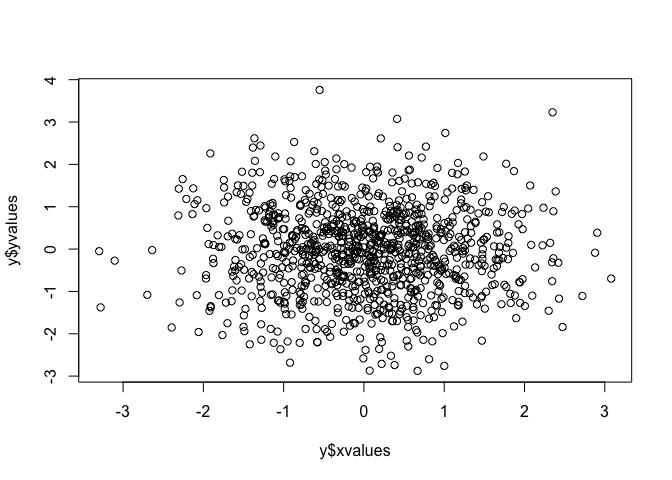
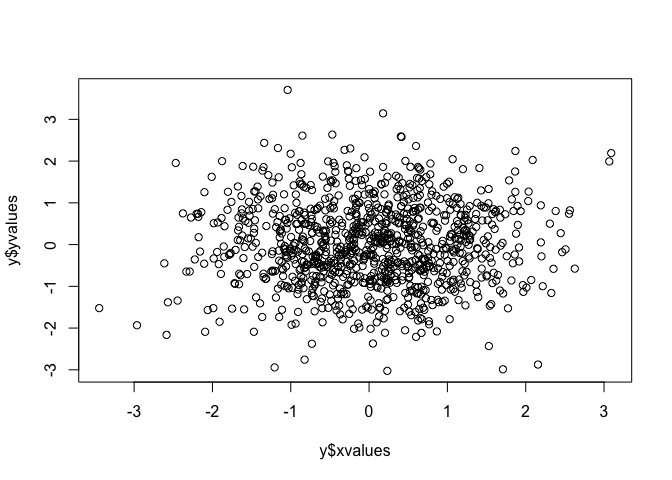
Part 1

diff --git a/01A.md b/01A.md
@@ -1,7 +1,7 @@
 Introduction to R Programming
 ================
 Mingyang Lu
-10/6/2021
+10/12/2021
 
   - [Why Using R?](#why-using-r)
   - [A crash course of R](#a-crash-course-of-r)
@@ -251,35 +251,35 @@ mat = matrix(rnorm(16), nrow = 4)    # generating a random matrix of 4 x 4
 mat
 ```
 
-    ##            [,1]       [,2]       [,3]       [,4]
-    ## [1,] -0.0902297  1.1380551  0.1367340 -0.6177632
-    ## [2,]  0.3722407 -1.5746884  0.2345532  0.5704284
-    ## [3,]  0.9343333  0.2401492 -0.8433827 -0.1688769
-    ## [4,] -0.3087685 -1.4850208  1.3330041 -0.2518285
+    ##             [,1]       [,2]        [,3]       [,4]
+    ## [1,]  3.34840063  0.2994124  0.07208216 -0.1968725
+    ## [2,]  0.01452122 -0.1090686 -0.42321761  0.5025703
+    ## [3,] -1.34016296 -0.9214317 -0.17566972 -0.9264722
+    ## [4,] -0.10481810 -0.4189668  0.44969997  1.4097254
 
 ``` r
 apply(mat, 1, sum)   # row sum
 ```
 
-    ## [1]  0.5667963 -0.3974661  0.1622229 -0.7126136
+    ## [1]  3.52302276 -0.01519473 -3.36373654  1.33564050
 
 ``` r
 rowSums(mat)   # An alternative way to do row sum
 ```
 
-    ## [1]  0.5667963 -0.3974661  0.1622229 -0.7126136
+    ## [1]  3.52302276 -0.01519473 -3.36373654  1.33564050
 
 ``` r
 apply(mat, 2, sum)   # column sum
 ```
 
-    ## [1]  0.9075759 -1.6815049  0.8609086 -0.4680402
+    ## [1]  1.91794081 -1.15005466 -0.07710519  0.78895103
 
 ``` r
 colSums(mat)  # An alternative way to do column sum
 ```
 
-    ## [1]  0.9075759 -1.6815049  0.8609086 -0.4680402
+    ## [1]  1.91794081 -1.15005466 -0.07710519  0.78895103
 
 There are other apply-like functions, such as lappy, sappy, tapply,
 *etc.* [Check here for more
@@ -663,23 +663,23 @@ means
 ```
 
     ## [[1]]
-    ## [1] 0.226894
+    ## [1] 0.4794852
     ## 
     ## [[2]]
-    ## [1] -0.4203762
+    ## [1] -0.2875137
     ## 
     ## [[3]]
-    ## [1] 0.2152272
+    ## [1] -0.0192763
     ## 
     ## [[4]]
-    ## [1] -0.11701
+    ## [1] 0.1972378
 
 ``` r
 means2 = colMeans(mat)   # an alternative way to compute column means
 means2
 ```
 
-    ## [1]  0.2268940 -0.4203762  0.2152272 -0.1170100
+    ## [1]  0.4794852 -0.2875137 -0.0192763  0.1972378
 
 ## Efficient R programming
 
@@ -787,7 +787,7 @@ sd = sqrt(means2 - means*means)
 sd
 ```
 
-    ## [1] 0.4767331 1.1544378 0.7708137 0.4313327
+    ## [1] 1.7392094 0.4459419 0.3224564 0.8633367
 
 #### Byte compile package
 
@@ -811,7 +811,7 @@ cmp_sd(seq_len(100))   # same calculations as a previous example, but with compi
 apply(mat, 2, cmp_sd)  # apply to a matrix 
 ```
 
-    ## [1] 0.4767331 1.1544378 0.7708137 0.4313327
+    ## [1] 1.7392094 0.4459419 0.3224564 0.8633367
 
 #### Use C/Fortran codes
 
@@ -916,7 +916,7 @@ system.time({      # no parallel
 ```
 
     ##    user  system elapsed 
-    ##   3.564   0.293   3.896
+    ##   3.677   0.299   4.040
 
 ``` r
 system.time({      # with parallel
@@ -925,4 +925,7 @@ system.time({      # with parallel
 ```
 
     ##    user  system elapsed 
-    ##   0.902   0.095   1.041
+    ##   2.697   0.288   1.052
+
+For additional read, please [check this
+page](https://nceas.github.io/oss-lessons/parallel-computing-in-r/parallel-computing-in-r.html)
